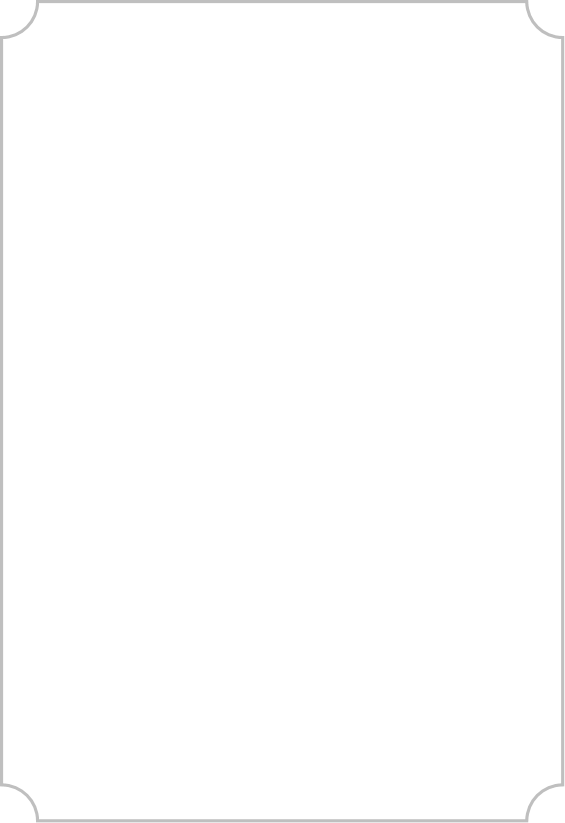
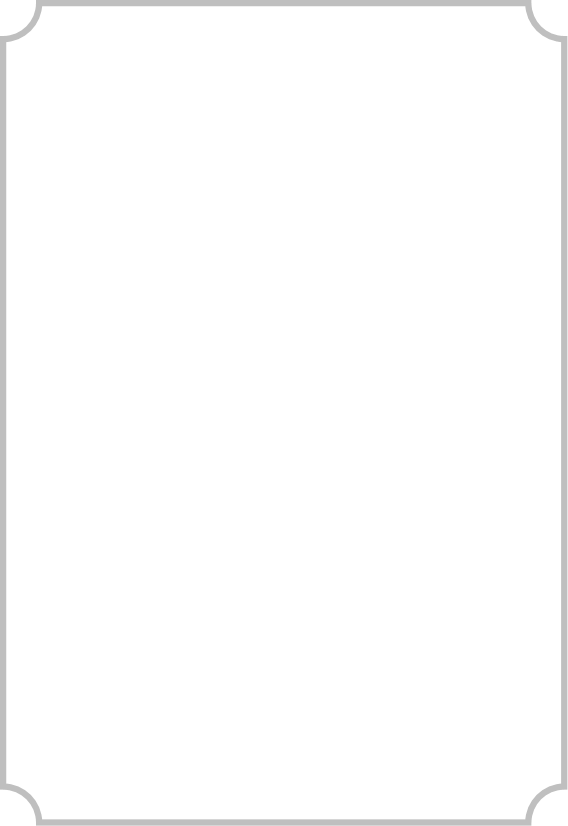
8-23

diff --git a/src/page16.css b/src/page16.css
@@ -1,24 +1,107 @@
 body {
-    background-image: url('pic/background2.png'); 
+    margin: 5% 10%;
+    padding: 0;
+    font-family: Arial, sans-serif;
+    background-image: url('pic/background3.png');
     background-size: cover;
     background-position: center;
-    font-family: Arial, sans-serif;
+    display: flex;
+    height: 100vh;
     color: white;
-    justify-content: space-between;
 }
-.button {
-    height : 10%;
-    width : 15%;
+.container {
+    text-align: center;
+    display: flex;
+    flex-direction: column;
+}
+.return {
+    height : auto;
+    width:auto;
     position: absolute;
     bottom: 20px;
     right: 20px;
     margin: 20px;
     padding: 10px 20px;
-    background-color: #007BFF;
     color: white;
-    border: none;
+    background-color: transparent; 
     border-radius: 5px;
+    border: 5px solid white; 
+    border-style: double;
+    border-width: thick;
     cursor: pointer;
     font-size: 24px;
     transition: transform 0.1s ease-in-out;
+}
+.form-group {
+    left : 100px;
+}
+label {
+    font-size: 18px;
+    margin-right: 10px;
+}
+input[type="text"], select {
+    width: 100px;
+    padding: 5px;
+    font-size: 16px;
+    margin-right: 20px;
+    border: 1px solid white;
+    background-color: transparent;
+    color: white;
+}
+
+select {
+    appearance: none; 
+    background-image: url('pic/arrow.png'); 
+    background-repeat: no-repeat;
+    background-position: right 10px center;
+    background-size: 10px;
+}
+
+select option {
+    color: black; 
+}
+.button-group {
+    margin-top: 50px;
+    display: flex;
+    align-items: center;
+    
+}
+.button-group button {
+    display: block;
+    width: 250px;
+    padding: 10px;
+    margin-bottom: 10px;
+    font-size: 16px;
+    color: white;
+    background-color: transparent;
+    border: 5px solid white;
+    border-style: double;
+    text-align: left;
+    cursor: pointer;
+}
+.button-group button:hover {
+    background-color: rgba(255, 255, 255, 0.1);
+}
+.image-placeholder {
+    width: 500px;
+    height: 500px;
+    margin-left: 20px;
+}
+#image{
+    display: none;
+    transform-origin: bottom left;
+    
+    transition: none; /* 禁用可能的默认过渡效果 */   
+}
+.expand-animation {
+    animation: expandClip 0.5s ease-in-out forwards;
+}
+
+@keyframes expandClip {
+    0% {
+        clip-path: polygon(0 100%, 0 100%, 0 100%, 0 100%); /* 初始状态，完全隐藏 */
+    }
+    100% {
+        clip-path: polygon(0 100%, 100% 100%, 100% 0, 0 0); /* 最终状态，显示整个图片 */
+    }
 }

diff --git a/src/page15.css b/src/page15.css
@@ -9,6 +9,17 @@ body {
     flex-direction :row;
     justify-content: center;
 }
+#shuqian {
+    margin :auto;
+    display :flex;
+    align-items: center;
+    text-align: right;
+    margin-left: auto;
+    gap : 20px;
+    font-size: 24px;
+    background-image: url('pic/shuqian.png'); 
+    background-size: cover;
+}
 .cal {
     display :flex;
     flex-direction :row;
@@ -20,30 +31,36 @@ body {
     width : 30%;
 }
 .button {
-    height : 10%;
-    width : 15%;
+    height : auto;
+    width:auto;
     position: absolute;
     bottom: 20px;
     right: 20px;
     margin: 20px;
     padding: 10px 20px;
-    background-color: #007BFF;
     color: white;
-    border: none;
+    background-color: transparent; 
     border-radius: 5px;
+    border: 5px solid white; 
+    border-style: double;
+    border-width: thick;
     cursor: pointer;
     font-size: 24px;
     transition: transform 0.1s ease-in-out;
 }
+
+
 .calculate {
-    position: absolute;
-    bottom: 20px;
-    /* right: center; */
+    height : auto;
+    width:auto;
     margin: 20px;
     padding: 10px 20px;
-    background-color: #007BFF;
+    background-color: transparent; 
+    border-radius: 5px;
+    border: 5px solid white; 
+    border-style: double;
+    border-width: thick;
     color: white;
-    border: none;
     border-radius: 5px;
     cursor: pointer;
     font-size: 24px;
@@ -51,11 +68,11 @@ body {
 }
 .textcutton {
     
-    width: 300px; 
-    height : 437px;
+    width: auto; 
+    padding-bottom: 100.66%;
     padding: 20px;
     margin: 100px;
-    background-image: url('pic/frame.png'); 
+    background-image: url('pic/frame2.png'); 
     background-size: cover;
     display: inline-block;
     vertical-align: top;
@@ -126,7 +143,4 @@ select option {
     font-size: 20px;
     font-weight: bold;
     text-align: center;
-    margin-bottom: 15px;
-    position:absolute;
-    bottom : 20px;
 }

diff --git a/src/page16.html b/src/page16.html
@@ -1,12 +1,40 @@
 <!DOCTYPE html>
 <html lang="zh-CN">
-
 <head>
     <meta charset="UTF-8">
     <meta name="viewport" content="width=device-width, initial-scale=1.0">
-    <title>目录</title>
-    <link rel="stylesheet" href="page15.css">
+    <title>Webpage Layout</title>
+    <link rel="stylesheet" href="page16.css">
 </head>
 <body>
-    <button class="button" onclick="window.location.href='guide.html'">返回</button>
+    <script src="page16.js"></script>
+    <button class="return" onclick="window.location.href='guide.html'">返回</button>
+    <div class="container">
+        <div class="form-group">
+            <label for="type">弹药:</label>
+            <select id="type">
+                <option value="type1">Type 1</option>
+                <option value="type2">Type 2</option>
+                <option value="type3">Type 3</option>
+            </select>
+            <label for="quantity">用弹量:</label>
+            <input type="text" id="quantity">
+            <label for="length">目标尺寸: 长/m:</label>
+            <input type="text" id="length">
+            <label for="width">宽/m:</label>
+            <input type="text" id="width">
+        </div>
+        <div class="button-group">
+            <div>
+                <button onclick="showpic(1)">单次仿真模拟</button>
+                <button onclick="showpic(2)">2000次仿真模拟完成任务概率趋势统计</button>
+                <button onclick="showpic(3)">2000次仿真模拟附带损伤趋势统计</button>
+            </div>
+            <div class="image-placeholder">
+                <img src="image.png" alt="image" id="image">
+                
+            </div>
+        </div>
+    </div>
 </body>
+</html>

diff --git a/src/page15.html b/src/page15.html
@@ -8,12 +8,9 @@
     <link rel="stylesheet" href="page15.css">
 </head>
 <body>
-    <button class="button" onclick="window.location.href='guide.html'">返回</button>
-    <div class="cal">
-        <button class="calculate" onclick='calculate()'>计算所需用弹量</button>
-        <div class="ans">枚</div>
-    </div>
-    <div class="textcutton">
+    
+    <div id="shuqian"><pre>  </pre>已知弹药性能，<br>求用弹量</div>    
+    <div class="textcutton" id="frame1">
         <div id="title">武器选择</div>
         
         <div class="form-group">
@@ -47,7 +44,7 @@
         </div>
     </div>
     
-    <div class="textcutton">
+    <div class="textcutton" id="frame2">
         <div id="title">目标及瞄准点</div>
         
         <div class="form-group">
@@ -98,5 +95,10 @@
             </select>
         </div>
     </div>
-    
+    <div class="cal">
+        <button class="calculate" onclick='calculate()'>计算所需用弹量</button>
+        <div class="ans"></div>
+    </div>
+    <button class="button" onclick="window.location.href='guide.html'">返回</button>
+    <script src="page15.js"></script>
 </body>

diff --git a/src/page16.js b/src/page16.js
@@ -1,0 +1,22 @@
+function showpic(mode){
+    var selectedType = document.getElementById('type').value;
+    var image = document.getElementById('image');
+    image.classList.remove('expand-animation');
+    if (mode == 1){
+        if (selectedType === 'type1') {
+            image.src = 'pic/single-1.png';
+        } else if (selectedType === 'type2') {
+            image.src = 'pic/single-2.png';
+        } else if (selectedType === 'type3') {
+            image.src = 'pic/single-3.png';
+        }
+    }else if (mode == 2){
+        image.src = 'pic/success.png';
+    }else if (mode == 3){
+        image.src = 'pic/lost.png';
+    }    
+    setTimeout(function() {
+        image.style.display = 'block';
+        image.classList.add('expand-animation');
+    }, 10); // 小延迟以确保动画被触发
+}

diff --git a/src/page15.js b/src/page15.js
@@ -1,6 +1,17 @@
 function calculate(){
     var anss = document.querySelectorAll('.ans');
     anss.forEach(function (ans) {
-        ans.text = '15';
+        ans.textContent = Math.floor(Math.random()*100)+'枚';
     });
 }
+const img1 = document.getElementById('frame1');
+img1.style.width = 'auto'; 
+img1.style.height = img1.offsetWidth * 1.25 + 'px';
+
+const img2 = document.getElementById('frame2');
+img2.style.width = 'auto';
+img2.style.height = img2.offsetWidth * 1.25 + 'px';
+
+const img3 = document.getElementById('shuqian');
+img3.style.width = '15%';
+img3.style.height = img3.offsetWidth * 1.38 + 'px';

diff --git a/src/style.css b/src/style.css
@@ -26,6 +26,7 @@ body {
     cursor: pointer;
     font-size: 24px;
     transition: transform 0.1s ease-in-out;
+    background-color: rgba(0, 123, 255, 0.5);
 }
 
 .button:active {
